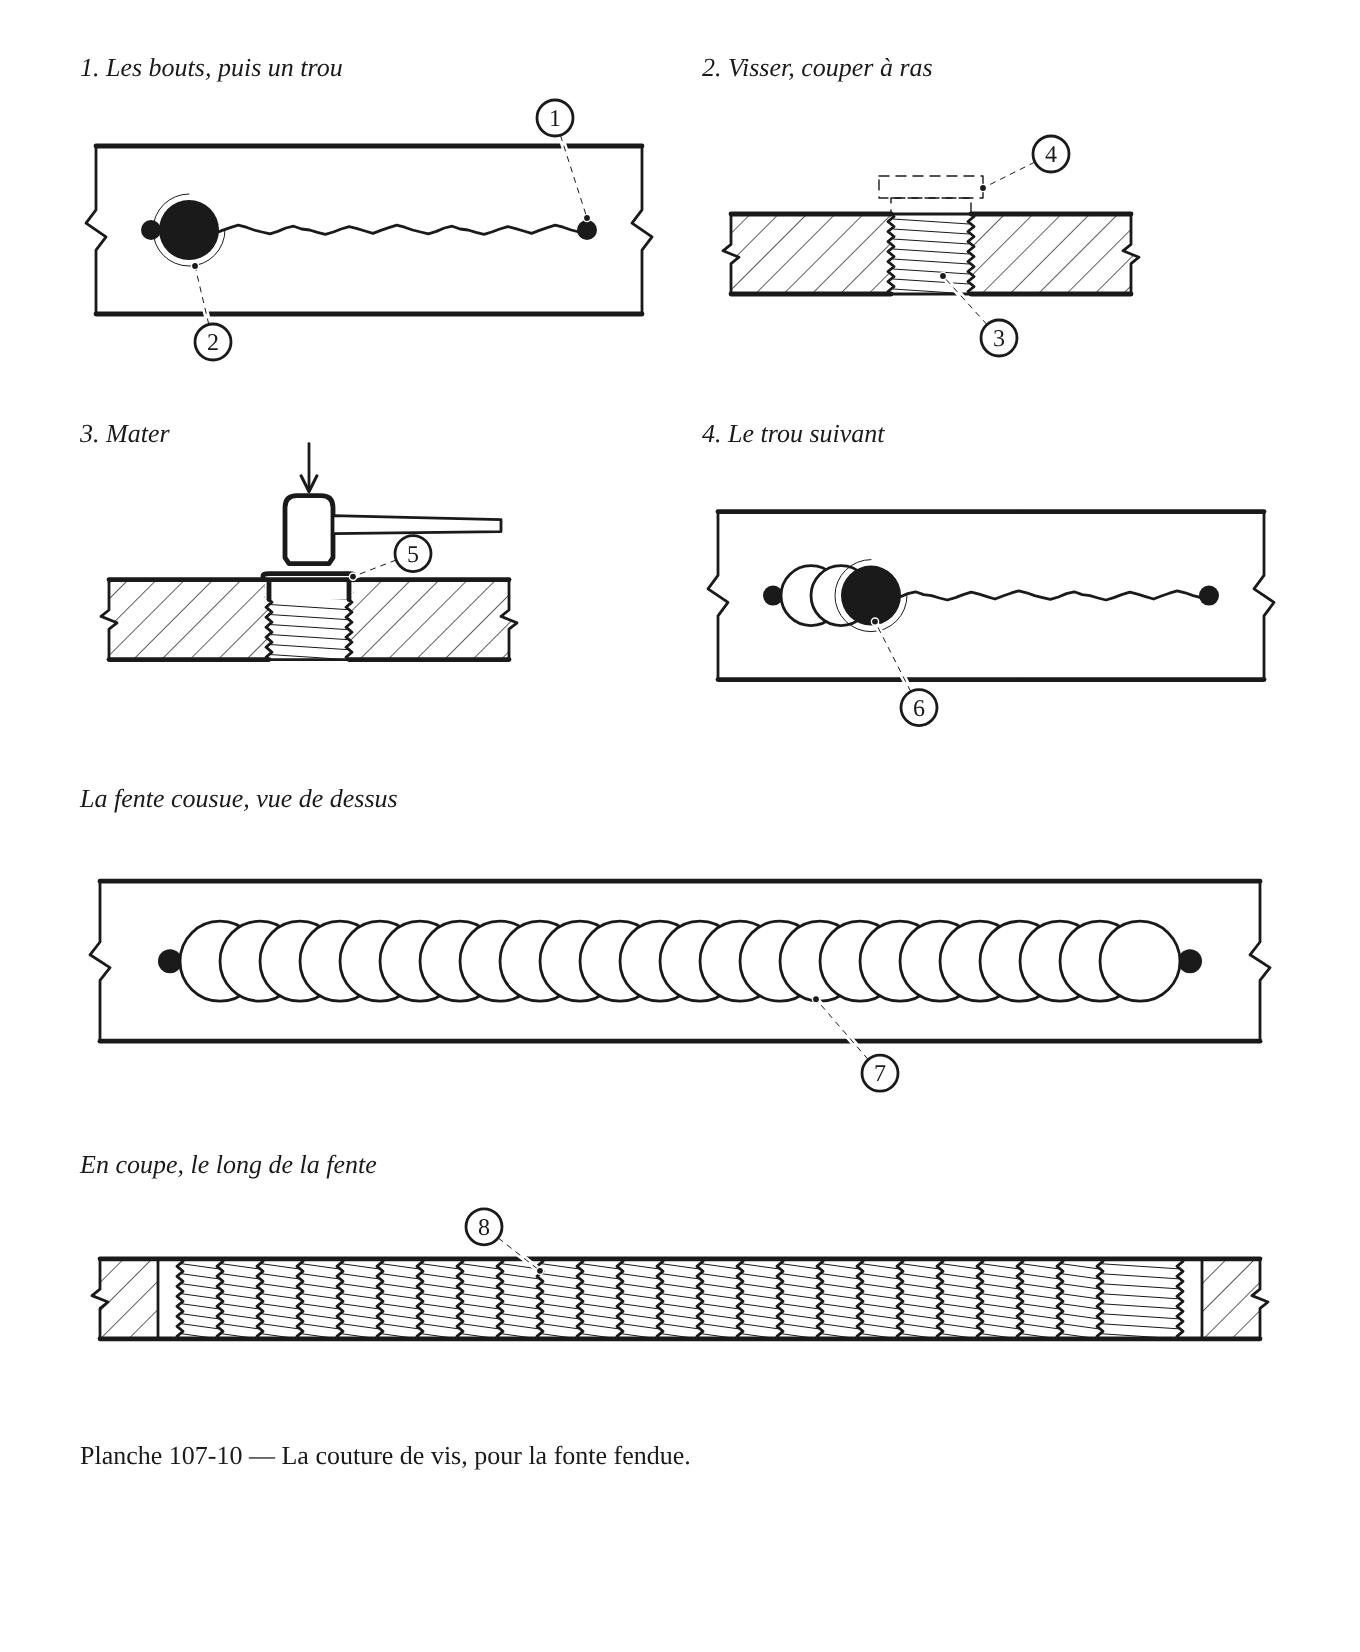
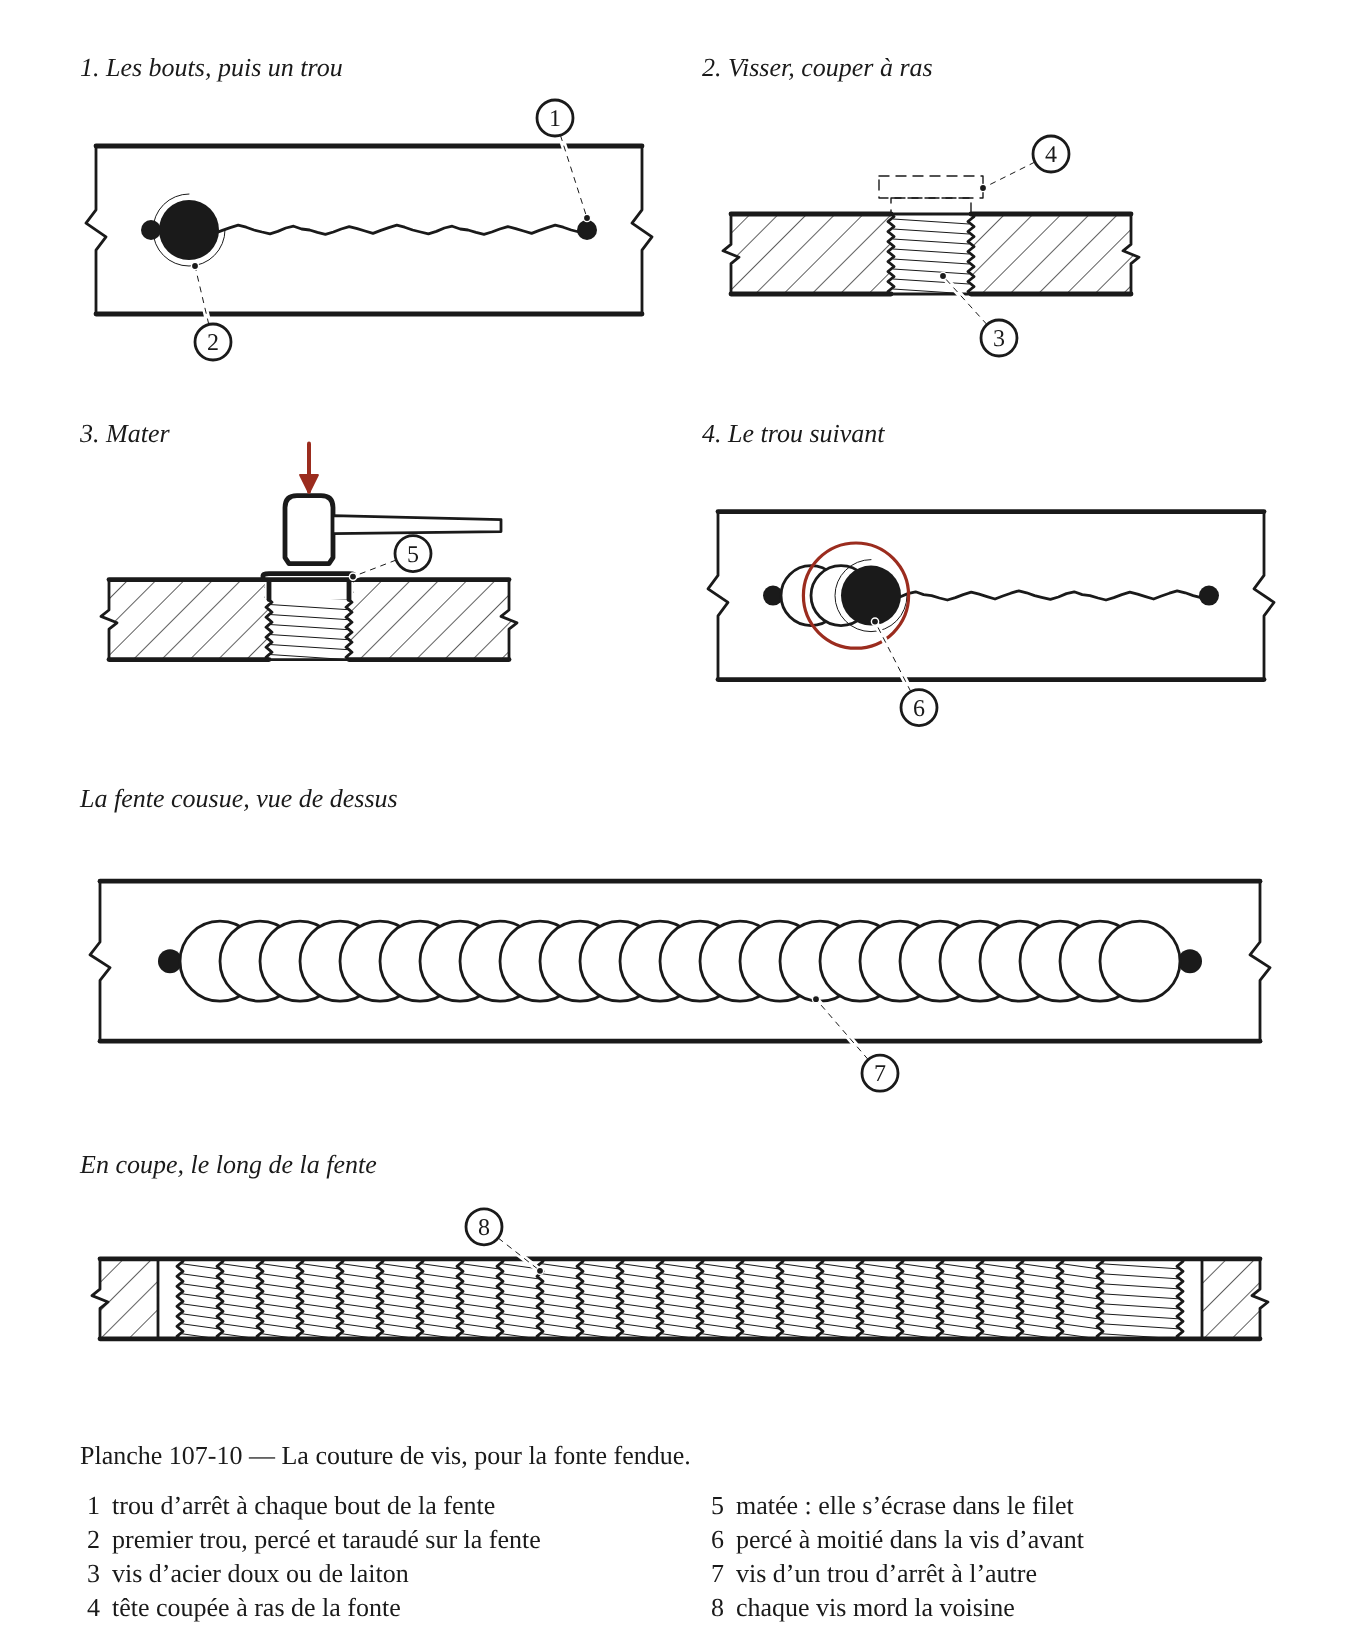
Charte et mains : travail en cours
Claude-Session: https://claude.ai/code/session_014xDY5FLxFXDJt3nYAYznSZ

diff --git a/images/planches-src/89-02.js b/images/planches-src/89-02.js
@@ -3,6 +3,8 @@
 // dépannage, la queue de castor (seule cotée : 300 × 1070 mm, traverses à 380 à 410 mm), et la
 // raquette de planche, taillée au même contour que la queue de castor.
 // Toutes les mesures du dessin sont en cm, converties en px par K, le même pour les trois vues.
+// La charte : c'est un gabarit à recopier, donc ni gris ni rouge (pas de geste, pas de point à
+// vérifier) ; les contours à recopier sont déjà au trait fort, le reste au trait fin.
 
 const r1 = v => Math.round(v * 10) / 10;
 const Y0 = 36;                                   // haut du nez, en px dans la vue

diff --git a/images/planches-src/107-10.js b/images/planches-src/107-10.js
@@ -185,7 +185,7 @@ module.exports = (h) => {
             trou(L.c[2], g.yc, L.r),
             filet(L.c[2], g.yc, L.r * 1.2),
             // la charte : le point à contrôler, le trou qui mord à moitié dans la vis d'avant
-            h.controle(L.c[2] - L.r / 2, g.yc, L.r + 3),
+            h.controle(L.c[2] - L.r / 2, g.yc, L.r * 1.75),
           ].join('\n');
         },
         renvois: z => {
